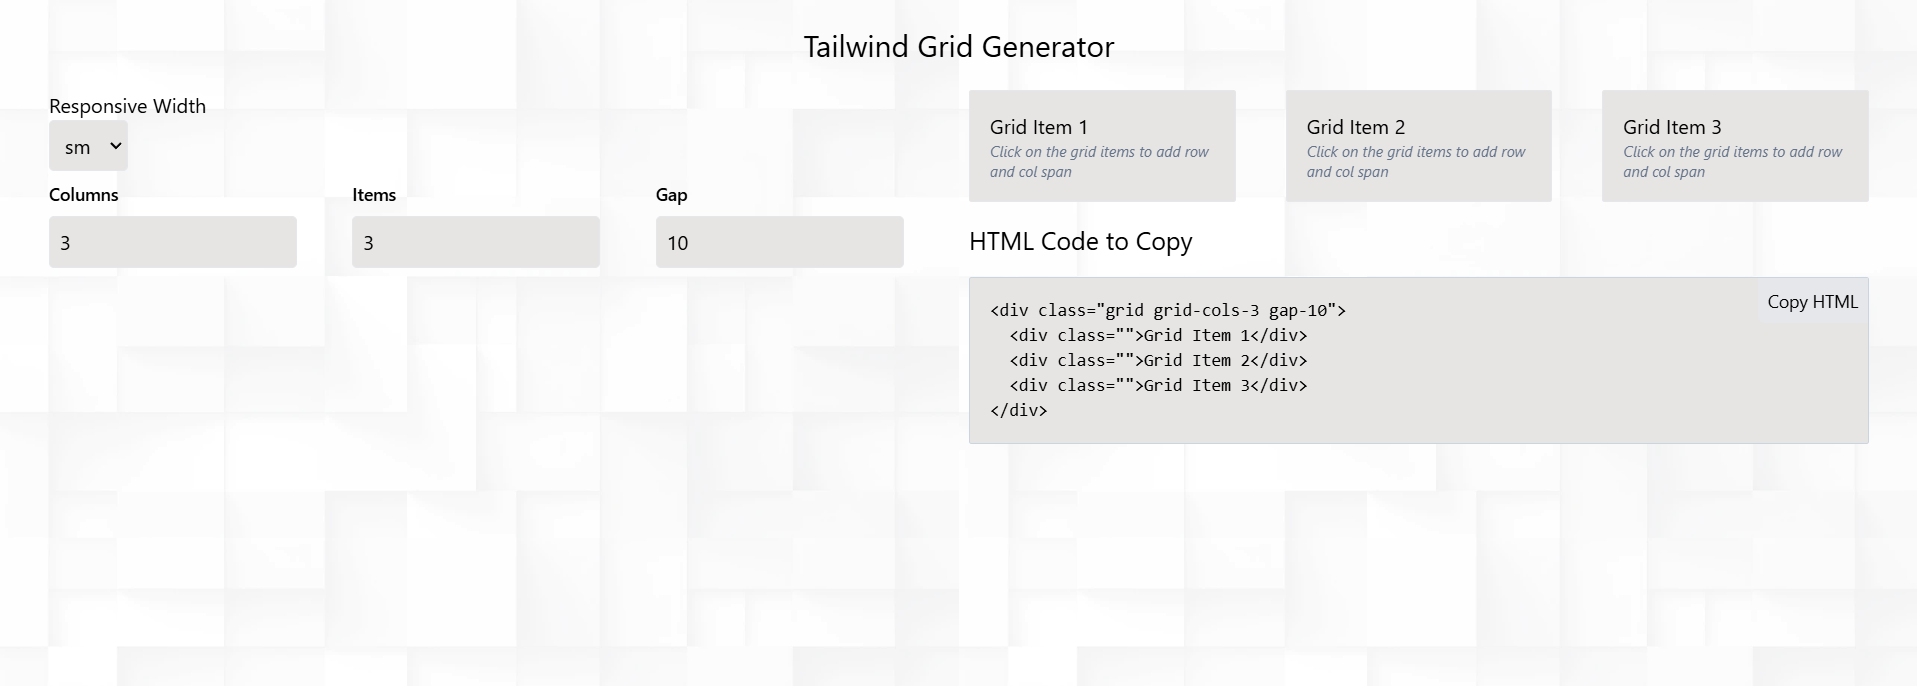
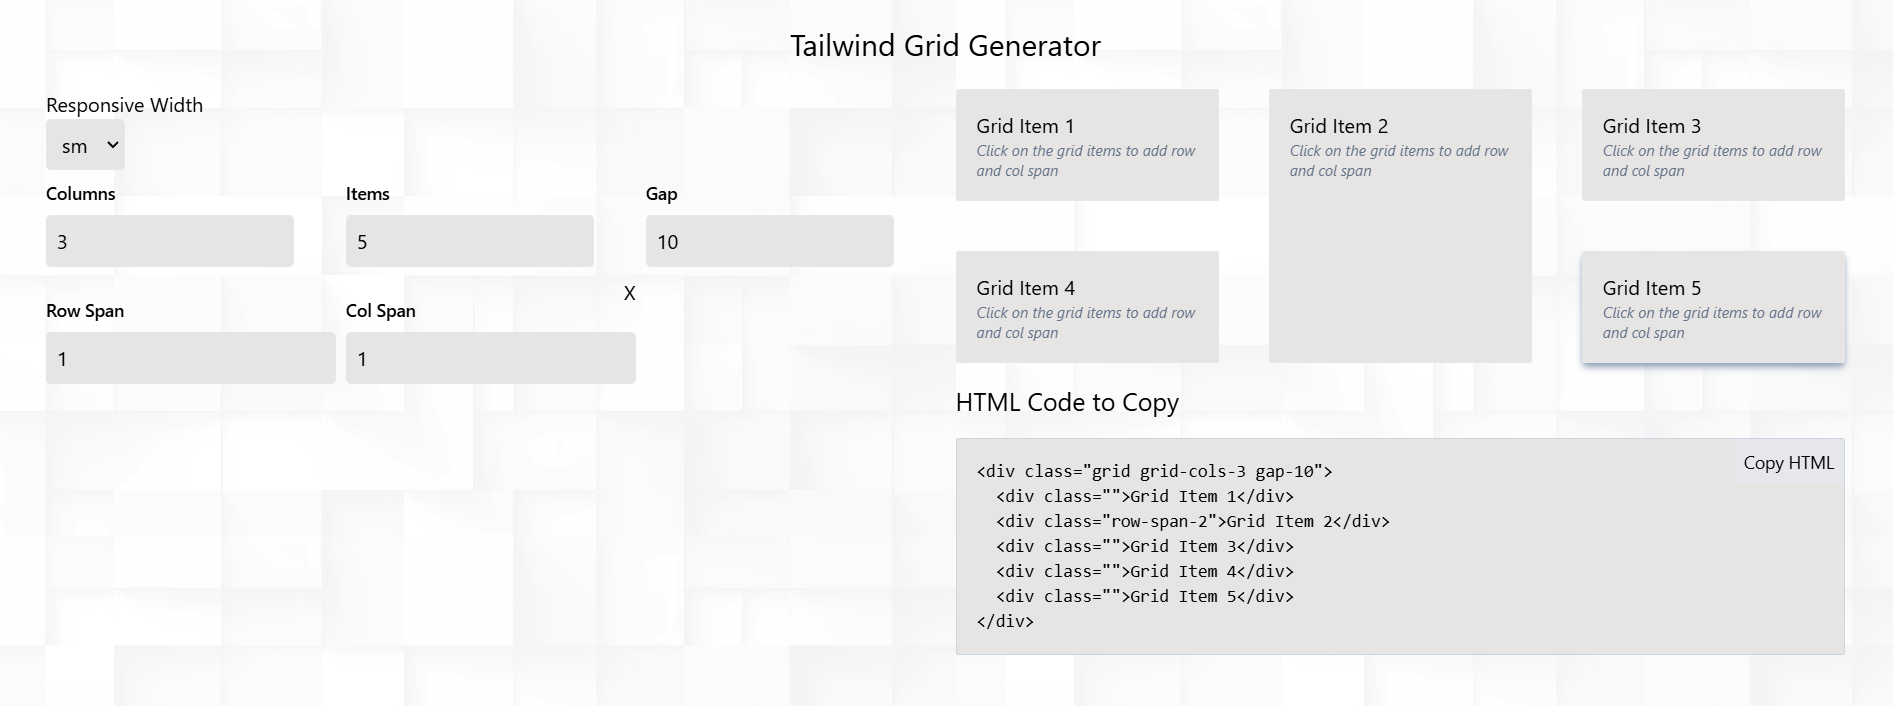
fix dynamic element colspan and rowspan

diff --git a/src/components/EditorForm.vue b/src/components/EditorForm.vue
@@ -1,5 +1,5 @@
 <script lang="ts">
-import { reactive, ref } from "vue";
+import { reactive, ref, watch } from "vue";
 
 enum BreakPoints {
   sm = "sm",
@@ -51,7 +51,7 @@ export default {
       columns: form.columns,
       gap: form.gap,
       rowSpan: Array.from({ length: form.rows }, () => 1),
-      colSpan: Array.from({ length: form.rows }, () => 1),
+      colSpan: Array.from({ length: form.columns }, () => 1),
     });
 
     const open = ref<number | null>(null);
@@ -74,33 +74,32 @@ export default {
     const updateGrid = (event: Event) => {
       console.log('updateGrid', event);
 
-      const target = event.target as HTMLInputElement;
-      if (!target) return;
-
-      const targetName = target.name;
-
-      if (targetName === 'responsive') {
-        const responsiveValue = target.value as keyof Responsive; // ✅ Ensure valid index
-        selectedResponsive.value = responsiveValue as BreakPoints;
-
-        console.log(form.responsive);
-
-        if (!form.responsive[responsiveValue]) {
-          form.responsive[responsiveValue] = defaultFormValue.columns;
-        }
-      }
-
       grid.rows = form.rows;
       grid.columns = form.columns;
       grid.gap = form.gap;
 
-      // Dynamically adjust rowSpan and colSpan lengths
-      while (grid.rowSpan.length < form.rows) grid.rowSpan.push(1);
-      while (grid.colSpan.length < form.columns) grid.colSpan.push(1);
+      // Ensure new elements have a default colSpan value
+      while (grid.colSpan.length < form.rows) {
+        grid.colSpan.push(1);
+      }
+      while (grid.colSpan.length > form.rows) {
+        grid.colSpan.pop();
+      }
 
-      grid.rowSpan.length = form.rows;
-      grid.colSpan.length = form.columns; // Updated from form.rows
+      // Ensure new elements have a default rowSpan value
+      while (grid.rowSpan.length < form.rows) {
+        grid.rowSpan.push(1);
+      }
+      while (grid.rowSpan.length > form.rows) {
+        grid.rowSpan.pop();
+      }
+
+      // Trigger Vue reactivity
+      grid.colSpan = [...grid.colSpan];
+      grid.rowSpan = [...grid.rowSpan];
     };
+
+
 
 
     // Generate HTML preview dynamically
@@ -119,8 +118,59 @@ export default {
     };
 
     const showRowSpan = (index: number) => {
+      console.log(`Clicked on item ${index}`);
       open.value = open.value === index ? null : index;
+
+      // Trigger reactivity by updating the entire array
+      grid.colSpan = [...grid.colSpan];
+      grid.rowSpan = [...grid.rowSpan];
     };
+
+
+
+    watch(
+      () => grid.columns,
+      (columns) => {
+
+        while (columns > grid.colSpan.length) {
+          grid.colSpan.push(1); // Ensure new columns get a default span of 1
+        }
+        while (columns < grid.colSpan.length) {
+          grid.colSpan.pop(); // Remove extra columns when decreased
+        }
+      },
+      { deep: true }
+    );
+
+    watch(
+      () => form.rows,
+      (newRows) => {
+        console.log(`Rows updated: ${newRows}`);
+
+        // Ensure colSpan array has the correct number of elements
+        while (grid.colSpan.length < newRows) {
+          grid.colSpan.push(1);  // Add default colSpan
+        }
+        while (grid.colSpan.length > newRows) {
+          grid.colSpan.pop();  // Remove extra colSpan
+        }
+
+        // Ensure rowSpan array has the correct number of elements
+        while (grid.rowSpan.length < newRows) {
+          grid.rowSpan.push(1);  // Add default rowSpan
+        }
+        while (grid.rowSpan.length > newRows) {
+          grid.rowSpan.pop();  // Remove extra rowSpan
+        }
+
+        // Update arrays to trigger reactivity
+        grid.colSpan = [...grid.colSpan];
+        grid.rowSpan = [...grid.rowSpan];
+      },
+      { immediate: true }
+    );
+
+
 
     // Copy generated HTML to clipboard
     const copyToClipboard = async () => {
